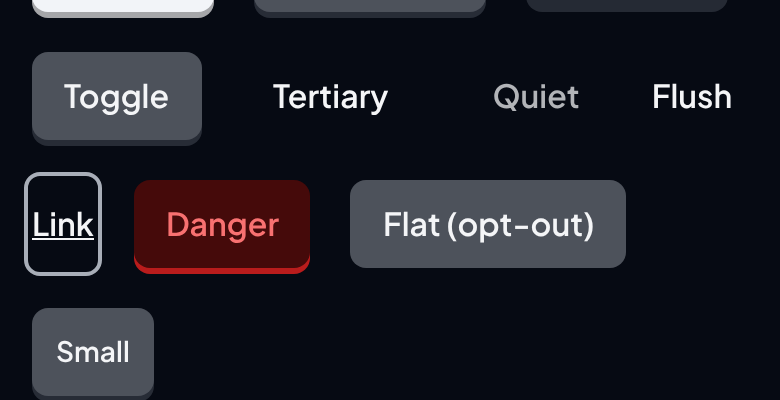
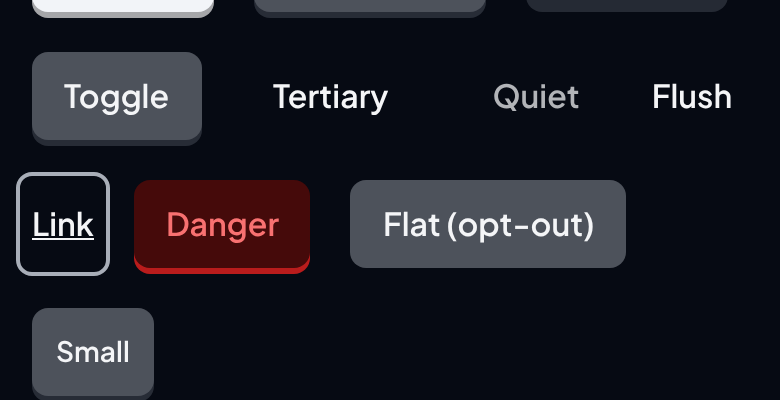
fix(button): link focus ring 4px past the label, per the Figma drawing (hds#1167)
The Figma Focus state draws the link ring around the label with 4px of
inline padding (space.scale.2xs), a 4px radius (radius.control), then the
2px gap and the 2px ring. An outline on the button itself could only sit
2px off the text, so the ring moves to an out-of-flow ::after box that
reaches 4px past the label; the button gains position: relative. Every
class that paints the ring is focus-visible:, so the rest box is
unchanged. Tests and screenshots updated.

Learned: an outline offset is uniform, so asymmetric focus room needs a pseudo-element box, not more offset
Claude-Session: https://claude.ai/code/session_01YAE7bW4CTrBeR7gLTTPcZP

Changed region(s): [[0.0, 0.42, 0.0615, 0.69], [0.0923, 0.42, 0.1538, 0.69]]

diff --git a/src/app/components/button.tsx b/src/app/components/button.tsx
@@ -175,17 +175,18 @@ const buttonVariants = /* @__PURE__ */ cva(
           'active:bg-[color:var(--component-button-tertiary-bg-pressed)] active:inset-shadow-transparent',
       },
       { tone: 'quiet', variant: ['tertiary', 'link'], className: 'text-muted-foreground' },
-      // Link focus (hds#1167): with px-0 the base box-shadow ring and its
-      // 2px offset sat right on the glyphs and the underline, on the md radius of a box only as
-      // wide as the text. A link draws an outline instead: role.ring colour, the thick border
-      // width, a 2px offset (the shared .hds-focus ring InlineLink uses) and the control radius,
-      // set only on :focus-visible, so the rest box (width, padding, radius) never moves. An
-      // outline also survives forced-colors mode, where a box-shadow ring is dropped.
+      // Link focus (hds#1167, matches the Figma Focus drawing): with px-0 the base box-shadow
+      // ring sat right on the glyphs and the underline. A link instead paints its ring on an
+      // ::after box that reaches space.scale.2xs (4px) past the label on each side, with the
+      // control radius (4px), then the 2px gap and the 2px role.ring outline. The ::after is
+      // absolutely positioned and the classes that draw it are all focus-visible:, so the rest
+      // box (width, padding, radius) never moves, with no negative margin. An outline also
+      // survives forced-colors mode, where a box-shadow ring is dropped.
       { variant: 'link', className: 'px-0' },
       {
         variant: 'link',
         className:
-          'focus-visible:ring-0 focus-visible:ring-offset-0 focus-visible:outline-solid focus-visible:outline-[length:var(--hds-borderWidth-thick)] focus-visible:outline-ring focus-visible:outline-offset-2 focus-visible:rounded-[var(--semantic-radius-control)]',
+          'relative after:pointer-events-none after:absolute after:inset-y-0 after:-inset-x-scale-2xs after:rounded-[var(--semantic-radius-control)] focus-visible:ring-0 focus-visible:ring-offset-0 focus-visible:after:outline-solid focus-visible:after:outline-[length:var(--hds-borderWidth-thick)] focus-visible:after:outline-ring focus-visible:after:outline-offset-2',
       },
       {
         iconOnly: true,
@@ -309,7 +310,7 @@ const BUTTON_EDGE = {
  * @a11y component required a11y:button.reduced-motion The loading spinner stops under prefers-reduced-motion.
  * @a11y component required a11y:button.label-crossfade When a toggle button's text label changes, the old label is aria-hidden while it fades out, so the accessible name is the new label from the moment it changes.
  * @a11y component required gate:check-reduced-motion The toggle label crossfade takes its duration from useHdsMotion, which is zero under prefers-reduced-motion, and under reduced motion the label swaps instantly with no overlap.
- * @a11y component required a11y:button.quiet-focus-ring The quiet tone and flush keep the focus-visible ring of every Button; the link variant draws a focus-visible outline with a 2px gap and the control radius instead (hds#1167).
+ * @a11y component required a11y:button.quiet-focus-ring The quiet tone and flush keep the focus-visible ring of every Button; the link variant draws a focus-visible outline 4px past the label, on the control radius, with a 2px gap (hds#1167).
  * @a11y component required a11y:button.quiet-contrast Quiet text is content.secondary and clears 4.5:1 at rest (page, raised), hovered (surface.hover) and pressed (the 5% wash), in light and dark.
  * @a11y consumer required Give an icon-only Button a label (or aria-label); without one it has no accessible name.
  * @a11y consumer required Use Button for actions and a link for navigation; do not put a click handler on a link-styled button to change page.

diff --git a/src/app/components/button-link-focus.test.tsx b/src/app/components/button-link-focus.test.tsx
@@ -2,46 +2,47 @@ import { render } from '@testing-library/react';
 import { describe, expect, it } from 'vitest';
 import { Button } from './button';
 
-// hds#1167: with px-0 the base ring-2 + ring-offset-2 hugged a link's glyphs and
-// underline. The link variant draws a token-bound outline instead (computed values are pinned in
-// tests/visual/button-link-focus.spec.ts); this pins the class contract jsdom can see.
+// hds#1167: with px-0 the base ring-2 + ring-offset-2 hugged a link's glyphs and underline. The
+// link variant paints a token-bound outline on an ::after box 4px past the label (computed values
+// are pinned in tests/visual/button-link-focus.spec.ts); this pins the class contract jsdom sees.
 const classesOf = (el: Element) => el.className.split(/\s+/);
 
 describe('Button variant="link" focus ring', () => {
-  it('swaps the box-shadow ring for a token-bound outline on focus-visible', () => {
+  it('swaps the box-shadow ring for a token-bound outline on a padded ::after box', () => {
     const { container } = render(<Button variant="link">Go</Button>);
     const c = classesOf(container.firstElementChild!);
     expect(c).toEqual(
       expect.arrayContaining([
         'focus-visible:ring-0',
         'focus-visible:ring-offset-0',
-        'focus-visible:outline-solid',
-        'focus-visible:outline-[length:var(--hds-borderWidth-thick)]',
-        'focus-visible:outline-ring',
-        'focus-visible:outline-offset-2',
-        'focus-visible:rounded-[var(--semantic-radius-control)]',
+        'after:-inset-x-scale-2xs',
+        'after:rounded-[var(--semantic-radius-control)]',
+        'focus-visible:after:outline-solid',
+        'focus-visible:after:outline-[length:var(--hds-borderWidth-thick)]',
+        'focus-visible:after:outline-ring',
+        'focus-visible:after:outline-offset-2',
       ]),
     );
-    // tailwind-merge must drop the base outline-none, or the outline never paints.
-    expect(c).not.toContain('focus-visible:outline-none');
     expect(c).not.toContain('focus-visible:ring-2');
   });
 
-  it('leaves the rest box alone: no padding, base radius, nothing outside :focus-visible', () => {
+  it('leaves the rest box alone: no padding, base radius, the ::after is out of flow', () => {
     const { container } = render(<Button variant="link">Go</Button>);
     const c = classesOf(container.firstElementChild!);
     expect(c).toContain('px-0');
     expect(c).toContain('rounded-md');
-    const added = c.filter(
-      (k) => /outline|ring|rounded-\[/.test(k) && !k.startsWith('focus-visible:'),
-    );
-    expect(added).toEqual([]);
+    expect(c).toContain('after:absolute');
+    expect(c).toContain('after:pointer-events-none');
+    // Nothing paints an outline or ring outside :focus-visible, and no negative margin.
+    const painted = c.filter((k) => /outline-|ring-/.test(k) && !k.startsWith('focus-visible:'));
+    expect(painted).toEqual([]);
+    expect(c.some((k) => /(^|:)-m[xytrbl]?-/.test(k))).toBe(false);
   });
 
   it('keeps the base ring on the other variants', () => {
     const { container } = render(<Button variant="tertiary">Go</Button>);
     const c = classesOf(container.firstElementChild!);
     expect(c).toContain('focus-visible:ring-2');
-    expect(c).toContain('focus-visible:outline-none');
+    expect(c).not.toContain('after:-inset-x-scale-2xs');
   });
 });

diff --git a/tests/visual/button-link-focus.spec.ts b/tests/visual/button-link-focus.spec.ts
@@ -4,8 +4,9 @@ import { openThemed } from './theme';
 /**
  * Button variant="link" focus ring (hds#1167). The link variant has no inline
  * padding, so the base box-shadow ring (ring-2 + ring-offset-2 on the md radius) hugged the
- * glyphs and the underline. It now draws an outline: role.ring colour, the thick border width,
- * a 2px offset and the control radius, on :focus-visible only, so the rest box never moves.
+ * glyphs and the underline. It now paints on an ::after box that reaches space.scale.2xs (4px)
+ * past the label on each side, on the control radius (4px), then a 2px gap and a 2px role.ring
+ * outline (the Figma Focus drawing). The rest box never moves.
  *
  * Reads computed styles from the built docs page. Needs `pnpm docs:publish` first.
  */
@@ -31,7 +32,8 @@ async function box(btn: Locator) {
 async function focusStyle(btn: Locator) {
   return btn.evaluate((el) => {
     (el as HTMLElement).focus();
-    const s = getComputedStyle(el);
+    const own = getComputedStyle(el);
+    const s = getComputedStyle(el, '::after');
     const probe = document.createElement('span');
     probe.style.color = 'var(--role-ring)';
     el.parentElement!.appendChild(probe);
@@ -39,12 +41,18 @@ async function focusStyle(btn: Locator) {
     probe.remove();
     return {
       focusVisible: el.matches(':focus-visible'),
+      ownOutline: own.outlineStyle,
+      ownShadow: own.boxShadow,
+      position: s.position,
+      left: s.left,
+      right: s.right,
+      top: s.top,
+      bottom: s.bottom,
       outlineStyle: s.outlineStyle,
       outlineWidth: s.outlineWidth,
       outlineOffset: s.outlineOffset,
       outlineColor: s.outlineColor,
       borderRadius: s.borderTopLeftRadius,
-      boxShadow: s.boxShadow,
       ring,
     };
   });
@@ -64,14 +72,21 @@ for (const theme of ['light', 'dark'] as const) {
 
     const f = await focusStyle(btn);
     expect(f.focusVisible).toBe(true);
+    // The ring box: 4px (space.scale.2xs) past the label on each side, full height, 4px radius.
+    expect(f.position).toBe('absolute');
+    expect(f.left).toBe('-4px');
+    expect(f.right).toBe('-4px');
+    expect(f.top).toBe('0px');
+    expect(f.bottom).toBe('0px');
+    expect(f.borderRadius).toBe('4px');
+    // Then the 2px gap and the 2px role.ring outline.
     expect(f.outlineStyle).toBe('solid');
     expect(f.outlineWidth).toBe('2px');
     expect(f.outlineOffset).toBe('2px');
     expect(f.outlineColor).toBe(f.ring);
-    // semantic.radius.control (4px), not the md action radius sized for a padded fill.
-    expect(f.borderRadius).toBe('4px');
-    // No box-shadow ring left over to hug the glyphs.
-    expect(f.boxShadow).not.toMatch(/0px 0px 0px [1-9]/);
+    // The button itself paints no outline and no box-shadow ring.
+    expect(f.ownOutline).toBe('none');
+    expect(f.ownShadow).not.toMatch(/0px 0px 0px [1-9]/);
 
     // Focus changes paint only: the box, padding and margins stay put.
     expect(await box(btn)).toEqual(rest);

diff --git a/tests/primitive-contracts/button.a11y.contract.test.tsx b/tests/primitive-contracts/button.a11y.contract.test.tsx
@@ -184,12 +184,12 @@ describe('Button accessibility contract', () => {
       expect(document.activeElement).toBe(button);
       const cls = button.className.split(/\s+/);
       if (name === 'Clear' || name === 'Details') {
-        // A link has no inline padding, so it draws an outline with room instead of the
-        // box-shadow ring (hds#1167); computed values live in tests/visual/button-link-focus.spec.ts.
-        expect(cls, name).toContain('focus-visible:outline-solid');
-        expect(cls, name).toContain('focus-visible:outline-ring');
-        expect(cls, name).toContain('focus-visible:outline-offset-2');
-        expect(cls, name).not.toContain('focus-visible:outline-none');
+        // A link has no inline padding, so it draws an outline on an ::after box 4px past the
+        // label instead of the box-shadow ring (hds#1167); computed values live in
+        // tests/visual/button-link-focus.spec.ts.
+        expect(cls, name).toContain('focus-visible:after:outline-solid');
+        expect(cls, name).toContain('focus-visible:after:outline-ring');
+        expect(cls, name).toContain('focus-visible:after:outline-offset-2');
       } else {
         expect(cls, name).toContain('focus-visible:ring-2');
         expect(cls, name).toContain('focus-visible:ring-ring');

diff --git a/.changeset/button-link-focus-ring.md b/.changeset/button-link-focus-ring.md
@@ -2,4 +2,4 @@
 '@hirobius/design-system': patch
 ---
 
-Button: `variant="link"` draws its keyboard focus as an outline in the ring colour, 2px wide, 2px off the text, on the small control radius, instead of the box-shadow ring that sat right on the glyphs and the underline. It shows only on `:focus-visible`, so the link's resting width, padding and radius are unchanged, and it stays visible in forced-colors mode.
+Button: `variant="link"` draws its keyboard focus ring 4px (`space.scale.2xs`) past the label on each side, on the 4px control radius, then a 2px gap and a 2px outline in the ring colour, instead of the box-shadow ring that sat right on the glyphs and the underline. The ring is painted on an out-of-flow `::after` box and only on `:focus-visible`, so the link's resting width, padding and radius are unchanged, and it stays visible in forced-colors mode. A link Button is now `position: relative`.
